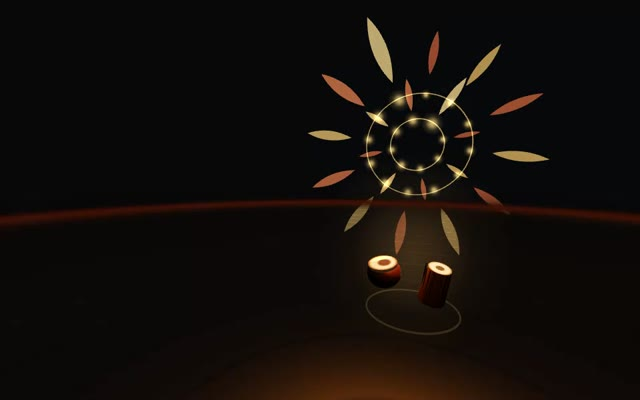
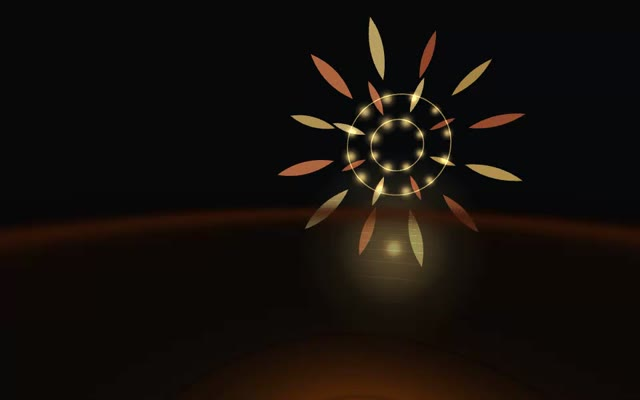
Anunād XR: remove the tabla model, add the Invent card under XR and Sound
Claude-Session: https://claude.ai/code/session_01BmpUg661HX7evUobhC82xS

Changed region(s): [[0.0, 0.03, 1.0, 0.72], [0.625, 0.81, 0.7188, 0.84], [0.75, 0.12, 0.7812, 0.18]]

diff --git a/demos/anunad-xr/index.html b/demos/anunad-xr/index.html
@@ -13,7 +13,6 @@
 <meta property="og:image" content="https://inventndiscover.com/media/anunad-xr-cover.jpg">
 <meta name="twitter:card" content="summary_large_image">
 <meta name="theme-color" content="#07080a">
-<meta name="robots" content="noindex"><!-- preview: remove when the Invent card goes live -->
 <link rel="preconnect" href="https://fonts.googleapis.com">
 <link rel="stylesheet" href="https://fonts.googleapis.com/css2?family=Inter:wght@400;500;600&family=Noto+Sans+Devanagari:wght@500;600&display=swap">
 <style>
@@ -245,43 +244,14 @@ const floorMat=new THREE.ShaderMaterial({
 const floor=add(new THREE.Mesh(new THREE.CircleGeometry(30,96), floorMat));
 floor.rotation.x=-Math.PI/2; floor.position.y=0.001;
 
-/* ---------------- the tabla pair, floating at chest height in front of you ---------------- */
-const TABLA_POS=new THREE.Vector3(0,0.92,-0.85);
-function skinTexture(offset){
-  const c=document.createElement("canvas"); c.width=c.height=256; const g=c.getContext("2d");
-  g.fillStyle="#e9dcc0"; g.beginPath(); g.arc(128,128,128,0,7); g.fill();
-  g.strokeStyle="#5a3b22"; g.lineWidth=18; g.beginPath(); g.arc(128,128,119,0,7); g.stroke();       // gajra rim
-  g.strokeStyle="rgba(120,90,60,.5)"; g.lineWidth=3; g.beginPath(); g.arc(128,128,100,0,7); g.stroke(); // kinar line
-  g.fillStyle="#141110"; g.beginPath(); g.arc(128+offset,128,offset?62:52,0,7); g.fill();             // syahi
-  g.fillStyle="rgba(255,255,255,.06)"; g.beginPath(); g.arc(118+offset,118,26,0,7); g.fill();
-  const t=new THREE.CanvasTexture(c); t.colorSpace=THREE.SRGBColorSpace; return t;
-}
+/* ---------------- the source: a soft point of light where the sound begins ---------------- */
+const TABLA_POS=new THREE.Vector3(0,1.0,-0.95);
 const tabla=new THREE.Group(); tabla.position.copy(TABLA_POS); scene.add(tabla);
-// dāyāñ (right, wooden)
-const dayan=new THREE.Group(); dayan.position.set(0.17,0,0); tabla.add(dayan);
-const wood=new THREE.MeshStandardMaterial({color:0x5b3820, roughness:.55, metalness:.05});
-const dBody=new THREE.Mesh(new THREE.CylinderGeometry(0.072,0.088,0.25,40,1,true), wood); dBody.position.y=-0.125; dayan.add(dBody);
-const dBase=new THREE.Mesh(new THREE.CircleGeometry(0.088,40), wood); dBase.rotation.x=Math.PI/2; dBase.position.y=-0.25; dayan.add(dBase);
-const dSkinMat=new THREE.MeshStandardMaterial({map:skinTexture(0), roughness:.7, emissive:new THREE.Color(0), emissiveIntensity:1});
-const dSkin=new THREE.Mesh(new THREE.CircleGeometry(0.074,48), dSkinMat); dSkin.rotation.x=-Math.PI/2; dSkin.position.y=0.001; dayan.add(dSkin);
-for(let i=0;i<16;i++){ // leather straps
-  const a=i/16*Math.PI*2; const s=new THREE.Mesh(new THREE.BoxGeometry(0.006,0.25,0.003), new THREE.MeshStandardMaterial({color:0x2b1d12,roughness:.8}));
-  s.position.set(Math.cos(a)*0.081,-0.125,Math.sin(a)*0.081); s.rotation.y=-a; s.rotation.z=0.06*Math.cos(a); dayan.add(s); }
-dayan.rotation.z=-0.18; dayan.rotation.x=0.22;
-// bāyāñ (left, metal bowl)
-const bayan=new THREE.Group(); bayan.position.set(-0.19,-0.03,0.02); tabla.add(bayan);
-const copper=new THREE.MeshStandardMaterial({color:0xa8653a, roughness:.32, metalness:.85});
-const bBowl=new THREE.Mesh(new THREE.SphereGeometry(0.115,40,20,0,Math.PI*2,Math.PI*0.32,Math.PI*0.68), copper);
-bBowl.scale.set(1,0.9,1); bBowl.position.y=-0.035; bayan.add(bBowl);
-const bSkinMat=new THREE.MeshStandardMaterial({map:skinTexture(16), roughness:.7, emissive:new THREE.Color(0), emissiveIntensity:1});
-const bSkin=new THREE.Mesh(new THREE.CircleGeometry(0.098,48), bSkinMat); bSkin.rotation.x=-Math.PI/2; bSkin.position.y=0.04; bayan.add(bSkin);
-bayan.rotation.z=0.12; bayan.rotation.x=0.22;
-// rings the pair rests on (chumbal), glowing faintly
-const rest=new THREE.Mesh(new THREE.TorusGeometry(0.30,0.006,8,96), new THREE.MeshBasicMaterial({color:0xffffff, transparent:true, opacity:.25, blending:THREE.AdditiveBlending, depthWrite:false}));
-rest.rotation.x=Math.PI/2; rest.position.y=-0.30; tabla.add(rest);
-// halo behind the tabla that blooms on each stroke
+const seed=new THREE.Sprite(new THREE.SpriteMaterial({map:GLOW, color:0xffffff, transparent:true, opacity:.9, blending:THREE.AdditiveBlending, depthWrite:false}));
+seed.scale.setScalar(0.14); tabla.add(seed);
+// halo that blooms on each stroke
 const halo=new THREE.Sprite(new THREE.SpriteMaterial({map:GLOW, color:0xffffff, transparent:true, opacity:.0, blending:THREE.AdditiveBlending, depthWrite:false}));
-halo.scale.set(1.4,1.4,1); halo.position.set(0,0.05,-0.08); tabla.add(halo);
+halo.scale.set(1.4,1.4,1); tabla.add(halo);
 
 /* ---------------- a points shader with per-point size and colour ---------------- */
 function pointsMaterial(){
@@ -308,7 +278,7 @@ const RINGS=[]; {
   for(let i=0;i<40;i++){ const m=new THREE.Mesh(geo, additive(0xffffff,0)); m.rotation.x=-Math.PI/2; m.visible=false; groups[0].add(m); RINGS.push({m,age:9,life:4,speed:2,y:0}); }
   // a constant soft core over the tabla
   const core=new THREE.Sprite(new THREE.SpriteMaterial({map:GLOW, transparent:true, blending:THREE.AdditiveBlending, depthWrite:false, opacity:.7}));
-  core.position.copy(TABLA_POS).add(new THREE.Vector3(0,0.25,-0.1)); core.scale.setScalar(.5); groups[0].add(core); groups[0].userData.core=core;
+  core.position.copy(TABLA_POS).add(new THREE.Vector3(0,0,-0.05)); core.scale.setScalar(.5); groups[0].add(core); groups[0].userData.core=core;
   // standing concentric rings that breathe with the spectrum
   const stand=[]; for(let i=0;i<7;i++){ const m=new THREE.Mesh(new THREE.RingGeometry(1,1.012,160,1), additive(0xffffff,.0)); m.rotation.x=-Math.PI/2; m.position.y=0.02; m.scale.setScalar(2+i*2.1); groups[0].add(m); stand.push(m); }
   groups[0].userData.stand=stand;
@@ -430,7 +400,7 @@ function stroke(s){
 const hudCanvas=document.createElement("canvas"); hudCanvas.width=768; hudCanvas.height=300;
 const hudTex=new THREE.CanvasTexture(hudCanvas); hudTex.colorSpace=THREE.SRGBColorSpace;
 const hud=new THREE.Mesh(new THREE.PlaneGeometry(0.74,0.29), new THREE.MeshBasicMaterial({map:hudTex, transparent:true, depthWrite:false}));
-hud.position.set(0,0.52,-0.78); hud.rotation.x=-0.75; hud.visible=false; scene.add(hud);
+hud.position.set(0,0.62,-0.8); hud.rotation.x=-0.75; hud.visible=false; scene.add(hud);
 let hudDirty=true;
 function drawHud(){
   const g=hudCanvas.getContext("2d"), W=hudCanvas.width, H=hudCanvas.height, P=PALETTES[state.pal];
@@ -546,11 +516,10 @@ function frame(){
   dayGlow=Math.max(0,dayGlow-dt*4); bayGlow=Math.max(0,bayGlow-dt*3);
   if(!renderer.xr.isPresenting){ camera.rotation.set(pitch,yaw,0,"YXZ"); } else pollPads();
 
-  // tabla glow
-  dSkinMat.emissive.copy(COL.dayan).multiplyScalar(dayGlow*0.9); bSkinMat.emissive.copy(COL.bayan).multiplyScalar(bayGlow*0.9);
+  // the source point: dayan strokes brighten it, bayan strokes widen it
+  seed.material.color.copy(COL.dayan).lerp(COL.bayan, bayGlow*0.6); seed.scale.setScalar(0.12+dayGlow*0.08+bayGlow*0.16+E.level*0.1);
   halo.material.color.copy(COL[flashDrum]); halo.material.opacity=0.12+flash*0.55+E.level*0.3;
   strokeLight.color.copy(COL[flashDrum]); strokeLight.intensity=flash*4+E.bass*2;
-  rest.material.color.copy(COL.dayan); rest.material.opacity=.15+E.level*.5;
   tabla.position.y=TABLA_POS.y+Math.sin(T*0.8)*0.008;
 
   floorMat.uniforms.uLevel.value=E.level; floorMat.uniforms.uBass.value=E.bass; floorMat.uniforms.uTime.value=T; floorMat.uniforms.uPulse.value=floorPulse;

diff --git a/app.js b/app.js
@@ -55,6 +55,11 @@ async function sendForm(data){
 
 // Demos in Invent; kind:"tutorial" cards show in Learn instead. inst:"Example" marks sample cards that only show the format; real demos have a gif (card) and video (sheet).
 const DEMOS = [
+ {id:"anunad-xr",name:"Anunād XR",line:"Stand inside the sound of the tabla, in your browser or in VR",cat:"XR",also:["Sound"],status:"Concept",makers:["Mohit Bhardwaj"],inst:"Real",tools:["Three.js","WebXR","Web Audio"],
+  gif:"media/anunad-xr.gif",img:"media/anunad-xr-cover.jpg",sheetImg:"media/anunad-xr-varna.jpg",url:"demos/anunad-xr/",cta:"Enter Anunād XR",
+  vr:"inventndiscover.com/demos/anunad-xr",
+  needs:"Turn your sound on. On a laptop or phone: press ▶ Vādan, drag to look around, and switch visuals with the buttons (or keys 1 to 6). In VR on Meta Quest: trigger plays or stops, grip or thumbstick left and right change the visual, thumbstick up and down changes the layakari, A or X changes the taal, B or Y changes the palette.",
+  desc:"The VR companion to Anunād. You stand in a dark, open space while real tabla bols, played and recorded by Mohit, sound out the taal, and the light answers every stroke around you: rings ripple out and pass through you (Nāda), particles burst in every direction (Sṛishti), a ring of spectrum bars stands around you (Varṇa), petalled wheels turn ahead and overhead (Chakra), bands of light carry the waveform at eye level (Taraṅga) and a lattice wall ripples with each stroke (Yantra). Choose the taal, the layakari and a palette. You stay in one place, which keeps it comfortable in a headset. Everything runs in one web page, with nothing to download."},
  {id:"anunad",name:"Anunād (अनुनाद)",line:"Real tabla bols, drawn as they sound",cat:"Sound",status:"Concept",makers:["Mohit Bhardwaj"],inst:"Real",tools:["Web Audio","Canvas 2D"],
   gif:"media/anunad.gif",img:"media/anunad-cover.jpg",sheetImg:"media/anunad-chakra.jpg",url:"demos/anunad/",cta:"Play Anunād",
   needs:"Turn your sound on and press ▶ Vādan to start. Pick a taal and a layakari (how many bols per beat), then switch between the six visuals and the colour palettes while it plays. Works on a laptop or phone in a recent Chrome, Edge or Safari.",
@@ -250,7 +255,7 @@ function eventCard(e){
 }
 function demoCard(d){
   const mxHTML=matrix([
-    {k:"Category",v:esc(d.cat),cls:"cat"},
+    {k:"Category",v:esc([d.cat,...(d.also||[])].join(" · ")),cls:"cat"},
     {k:"Stage",v:esc(d.status),cls:d.status==="Live"?"free":"paid"},
     {k:"Built with",v:esc(d.tools.join(" · ")),cls:"when small",span:1}
   ],CAT[d.cat].c,d.id);
@@ -473,15 +478,15 @@ function viewDiscover(){
 
 function viewInvent(){
   const inv=DEMOS.filter(d=>d.kind!=="tutorial");
-  const cats=["all",...new Set(inv.map(d=>d.cat))];
-  const list=inv.filter(d=>(state.demoCat==="all"||d.cat===state.demoCat)&&(state.demoStatus==="all"||d.status===state.demoStatus));
+  const cats=["all",...new Set(inv.flatMap(d=>[d.cat,...(d.also||[])]))];  // "also": extra categories a demo is filed under
+  const list=inv.filter(d=>(state.demoCat==="all"||d.cat===state.demoCat||(d.also||[]).includes(state.demoCat))&&(state.demoStatus==="all"||d.status===state.demoStatus));
   return `
   <div class="page-head has-img"><img class="ph-img" src="${img("skyline")}" alt="" style="object-position:70% 55%">${photoCredit("skyline")}<div class="wrap head-row">
     <div><div class="kicker"><span class="pill">Invent</span></div><h1 class="mega">Invent</h1><p>A gallery of things people in Mumbai are building: student projects, prototypes and early products. Every demo links to something you can try or watch.</p></div>
     <a class="btn taxi" href="#submit" data-go="submit" data-kind="demo">+ Add your demo</a>
   </div></div>
   <div class="wrap">
-    <div class="banner"><span aria-hidden="true">✦</span><span><b>New: Anunād, real tabla bols drawn as they sound. Also live: Arashiyama Bamboo Grove, Malabar Hill Trail, Tufani Samundar and Market Walkthrough.</b> The origami tutorials now live in <a href="#learn" data-go="learn">Learn</a>. Cards marked "Example" only show the format. Submit yours and it replaces one of them once a curator checks the link works.</span></div>
+    <div class="banner"><span aria-hidden="true">✦</span><span><b>New: Anunād and Anunād XR, real tabla bols drawn as they sound, on screen and in VR. Also live: Arashiyama Bamboo Grove, Malabar Hill Trail, Tufani Samundar and Market Walkthrough.</b> The origami tutorials now live in <a href="#learn" data-go="learn">Learn</a>. Cards marked "Example" only show the format. Submit yours and it replaces one of them once a curator checks the link works.</span></div>
     <div class="results-bar">
       <div class="frow">${cats.map(c=>`<button class="chip" data-dcat="${c}" aria-pressed="${state.demoCat===c}">${c==="all"?"All":c}</button>`).join("")}</div>
       <div class="seg" role="group" aria-label="Stage">${["all","Concept","Prototype","Live"].map(s=>`<button data-dstatus="${s}" aria-pressed="${state.demoStatus===s}">${s==="all"?"Any stage":s}</button>`).join("")}</div>
@@ -792,7 +797,7 @@ function demoSheet(id){
   const top=d.video?`<video class="demo-video" src="${d.video}" poster="${d.poster||""}" controls playsinline preload="metadata"></video>`:d.sheetImg?`<img class="demo-video" src="${d.sheetImg}" alt="${esc(d.name)}">`:cover(d.name.split(" ")[0],CAT[d.cat].c,d.id+"x",{tag:d.cat,stamp:d.status});
   openSheet(`${top}
   <div class="sheet-body">
-    <div><div class="label">${d.kind==="tutorial"?"Origami tutorial":real?esc(d.cat)+" demo":"Example demo"}</div><h2>${esc(d.name)}</h2><p style="margin:6px 0 0;color:var(--ink2);font-size:17px">${esc(d.line)}</p></div>
+    <div><div class="label">${d.kind==="tutorial"?"Origami tutorial":real?esc([d.cat,...(d.also||[])].join(" · "))+" demo":"Example demo"}</div><h2>${esc(d.name)}</h2><p style="margin:6px 0 0;color:var(--ink2);font-size:17px">${esc(d.line)}</p></div>
     <p style="margin:0;font-size:16px">${esc(d.desc)}</p>
     <div class="facts"><div><span class="label">Stage</span><b>${esc(d.status)}</b></div><div><span class="label">Made by</span><b>${esc(d.makers.join(", "))}</b></div><div style="grid-column:1/-1"><span class="label">Built with</span><b>${esc(d.tools.join(" · "))}</b></div></div>
     ${real?(d.url?`<div style="display:flex;gap:8px;flex-wrap:wrap"><a class="btn taxi" href="${d.url}" target="_blank" rel="noopener">${d.cta||"Open the simulation"} ↗</a></div>${d.vr?`<div class="note"><b>Experience it in VR.</b> Put on your Meta Quest, open the Meta Quest browser, go to <b style="overflow-wrap:anywhere">${esc(d.vr)}</b> and tap <b>Enter VR</b>.</div>`:""}${d.needs?`<div class="note">${esc(d.needs)}</div>`:""}`:d.video?`<div style="display:flex;gap:8px;flex-wrap:wrap"><a class="btn ghost" href="${d.video}" download>Download the video</a></div>`:""):`<div style="display:flex;gap:8px;flex-wrap:wrap"><button class="btn taxi" disabled>Try the demo ↗</button><button class="btn ghost" disabled>Watch video</button></div>
